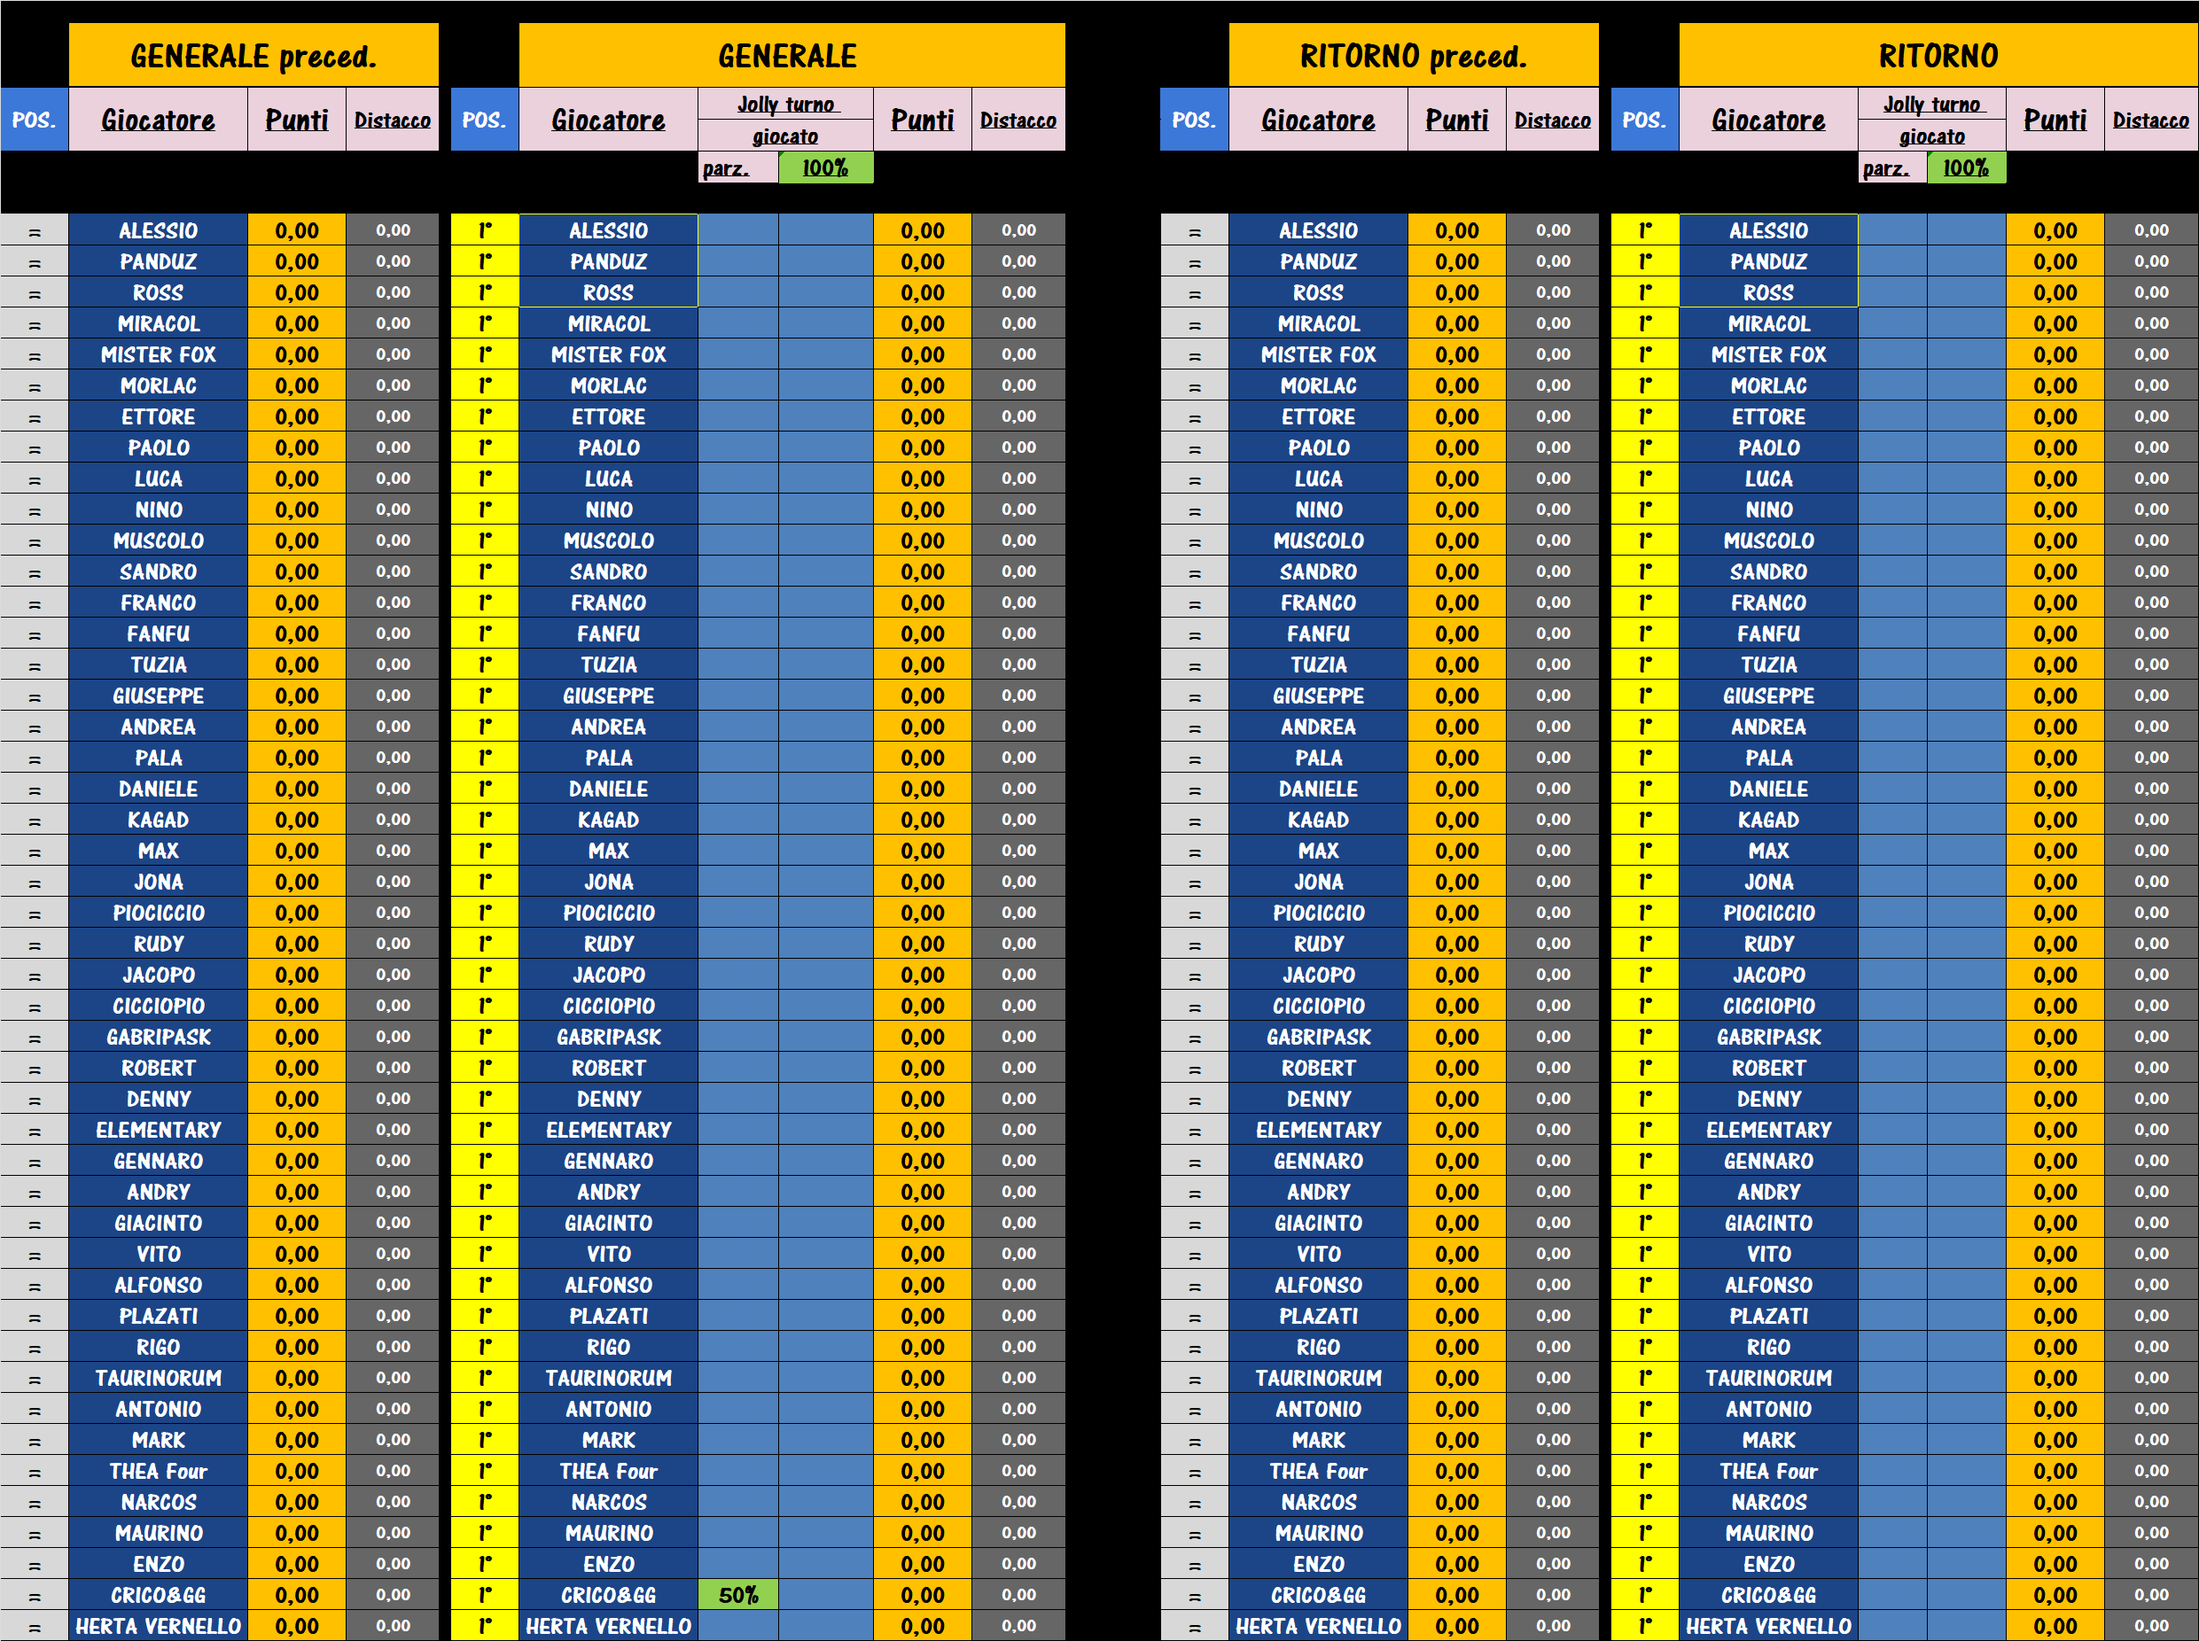
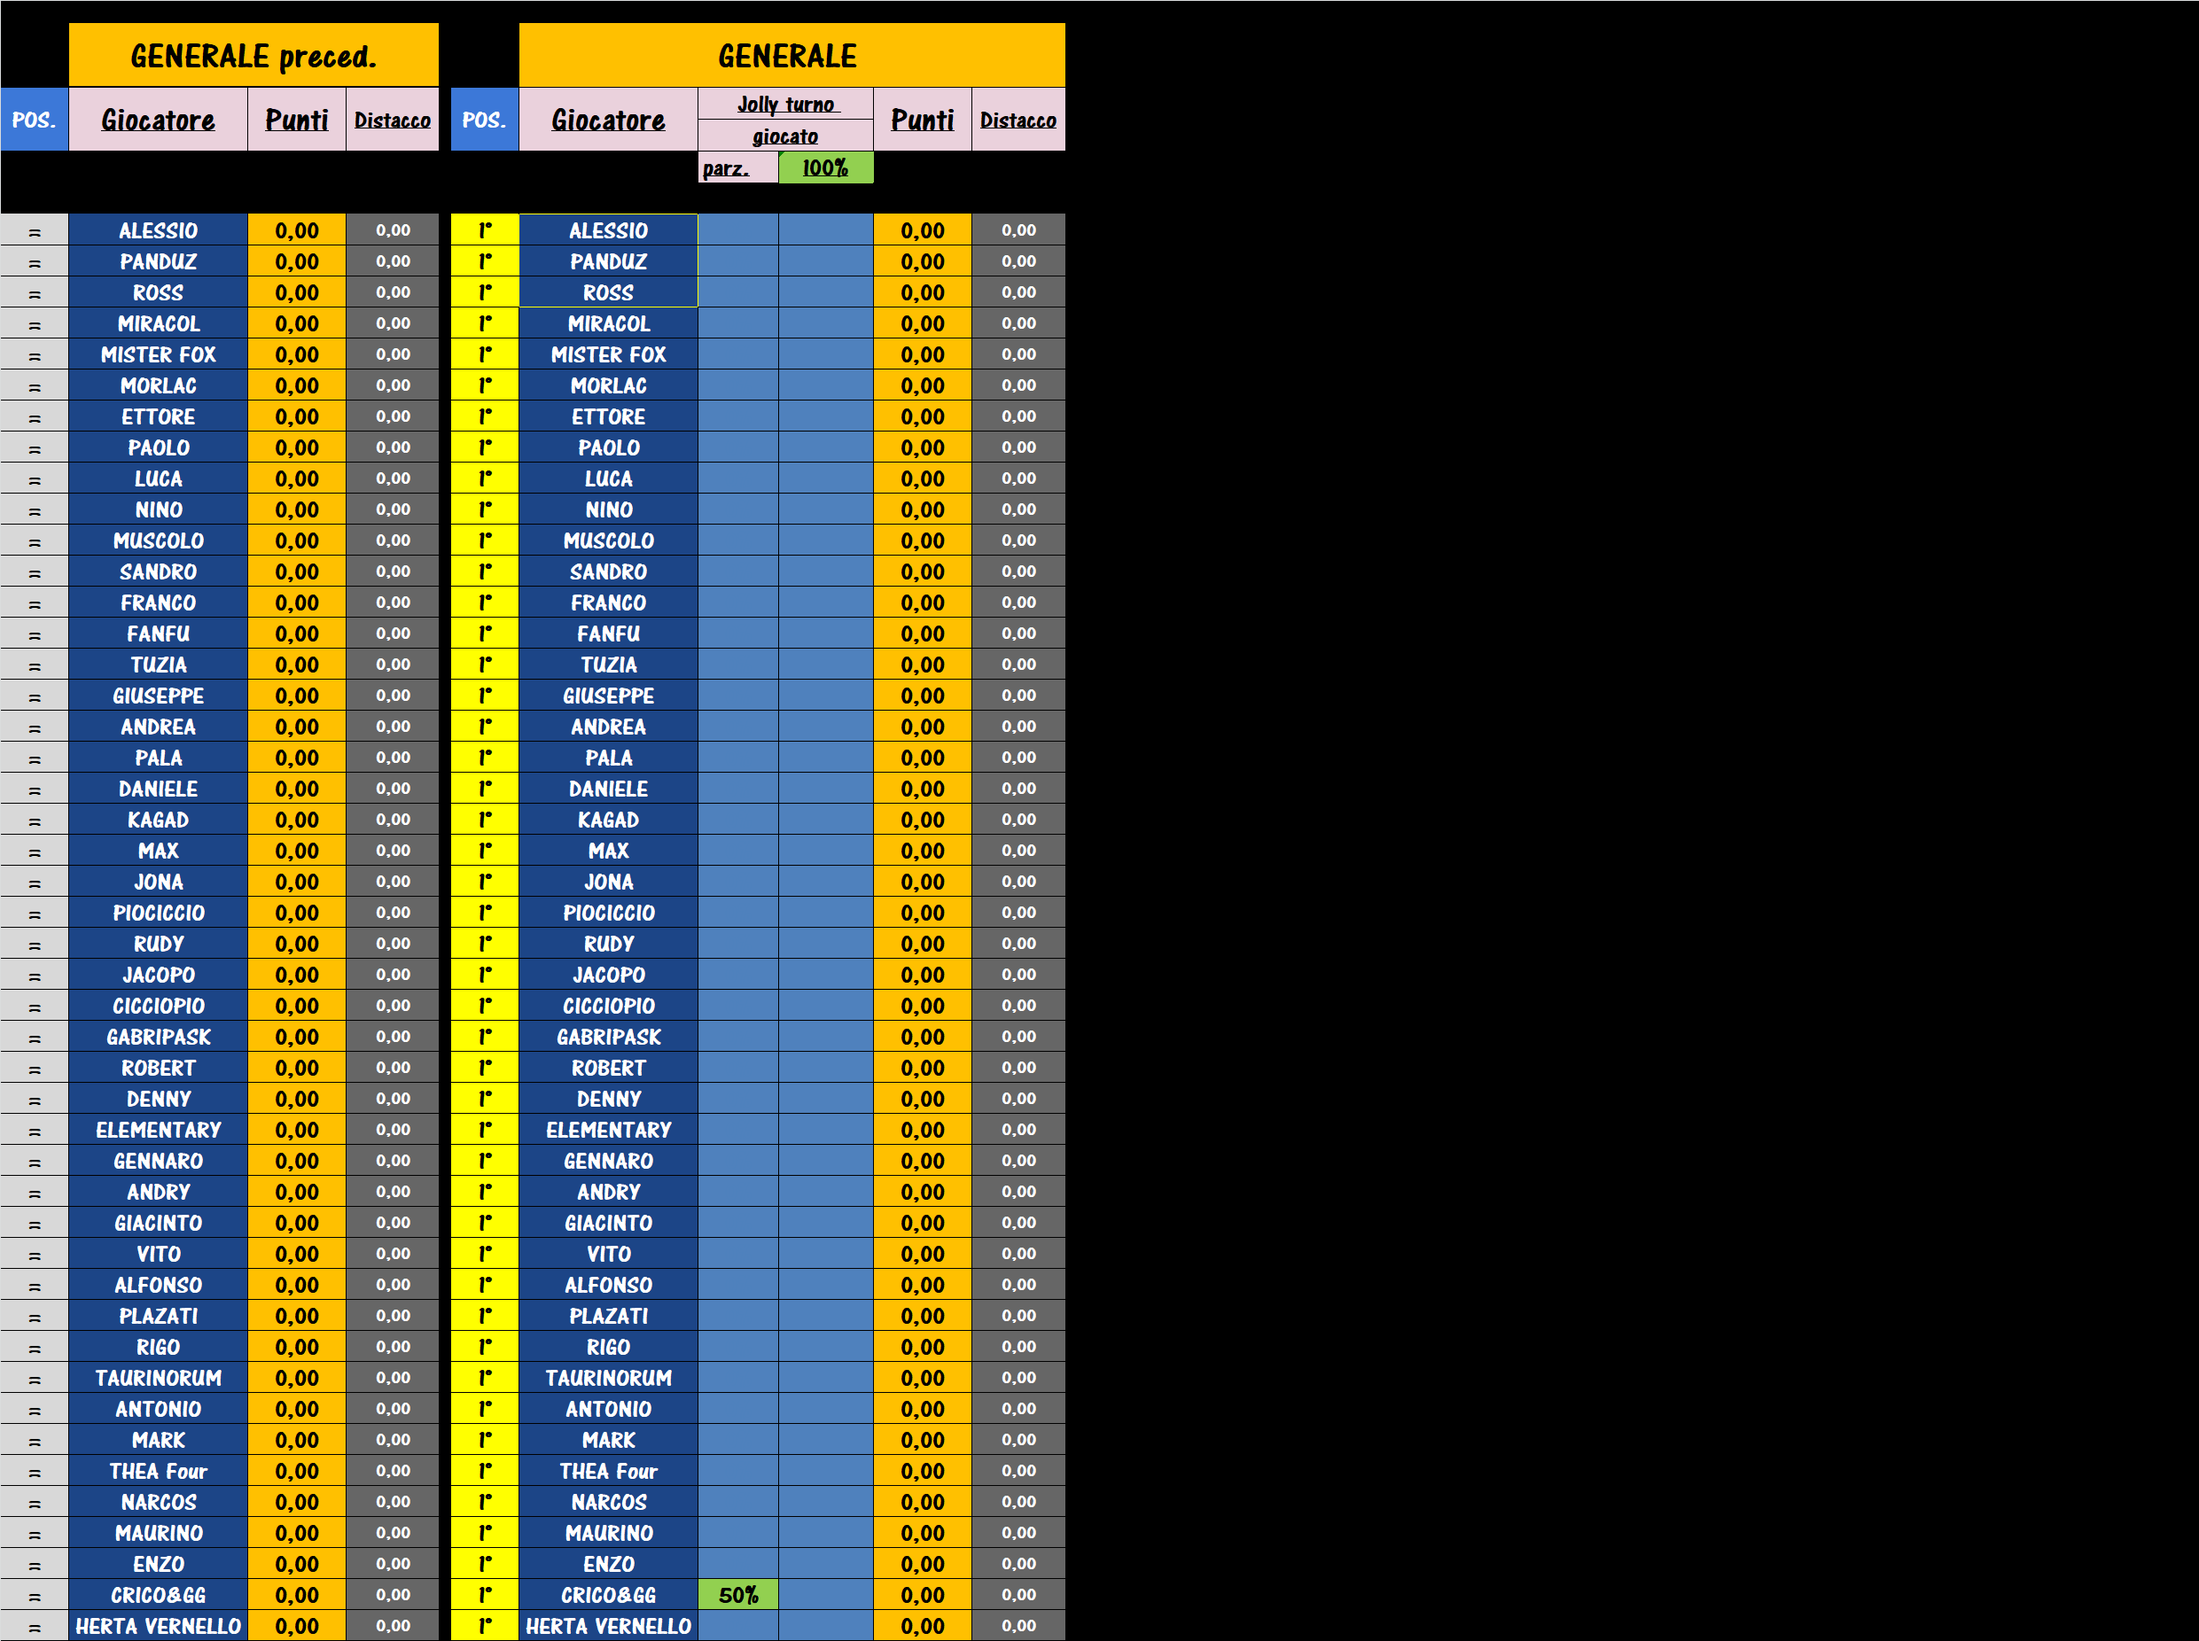
Ripristinato formato classifica turno

diff --git a/visualizza_tabellini.html b/visualizza_tabellini.html
@@ -31,8 +31,8 @@
         </select><br><img id="i-reg" style="display:none; width:400px; margin-top:10px;">
         <div class="frame">
             <h2>⚽ RISULTATI ⚽</h2>
-            <img src="foto_tabellini/risultati_partite.png?v=1786462296" class="img-larga"><br>
-            <img src="foto_tabellini/foto_extra.png?v=1786462296" style="width:50%; border:1px solid #444; margin-top:20px;">
+            <img src="foto_tabellini/risultati_partite.png?v=1786462430" class="img-larga"><br>
+            <img src="foto_tabellini/foto_extra.png?v=1786462430" style="width:50%; border:1px solid #444; margin-top:20px;">
         </div>
         <h2>📝 TABELLINI 📝</h2>
         <select class="gold-select" onchange="var img=document.getElementById('i-tab'); img.src=this.value; img.style.display='inline'">
@@ -40,8 +40,8 @@
         </select><br><img id="i-tab" style="display:none; width:90%; margin-top:20px; border:2px solid #00ff88;">
         <div class="frame">
             <h2>📊 CLASSIFICHE 📊</h2>
-            <img src="foto_tabellini/classifica_turno_parte1.png?v=1786462296" class="img-classifica-50">
-            <img src="foto_tabellini/classifica_turno_parte2.png?v=1786462296" class="img-classifica-totale">
+            <img src="foto_tabellini/classifica_turno_parte1.png?v=1786462430" class="img-classifica-50">
+            <img src="foto_tabellini/classifica_turno_parte2.png?v=1786462430" class="img-classifica-totale">
         </div>
     </div>
     <div class="settore-oro">
@@ -55,16 +55,16 @@
             <option value="">-- SELEZIONA GIOCATORE --</option><option value="foto_tabellini/coppa_tab_ALESSIO.png">ALESSIO</option><option value="foto_tabellini/coppa_tab_PANDUZ.png">PANDUZ</option><option value="foto_tabellini/coppa_tab_ROSS.png">ROSS</option><option value="foto_tabellini/coppa_tab_MIRACOL.png">MIRACOL</option><option value="foto_tabellini/coppa_tab_MISTER FOX.png">MISTER FOX</option><option value="foto_tabellini/coppa_tab_MORLAC.png">MORLAC</option><option value="foto_tabellini/coppa_tab_ETTORE.png">ETTORE</option><option value="foto_tabellini/coppa_tab_PAOLO.png">PAOLO</option><option value="foto_tabellini/coppa_tab_LUCA.png">LUCA</option><option value="foto_tabellini/coppa_tab_NINO.png">NINO</option><option value="foto_tabellini/coppa_tab_MUSCOLO.png">MUSCOLO</option><option value="foto_tabellini/coppa_tab_SANDRO.png">SANDRO</option><option value="foto_tabellini/coppa_tab_FRANCO.png">FRANCO</option><option value="foto_tabellini/coppa_tab_FANFU.png">FANFU</option><option value="foto_tabellini/coppa_tab_TUZIA.png">TUZIA</option><option value="foto_tabellini/coppa_tab_GIUSEPPE.png">GIUSEPPE</option><option value="foto_tabellini/coppa_tab_ANDREA.png">ANDREA</option><option value="foto_tabellini/coppa_tab_PALA.png">PALA</option><option value="foto_tabellini/coppa_tab_DANIELE.png">DANIELE</option><option value="foto_tabellini/coppa_tab_KAGAD.png">KAGAD</option><option value="foto_tabellini/coppa_tab_MAX.png">MAX</option><option value="foto_tabellini/coppa_tab_JONA.png">JONA</option><option value="foto_tabellini/coppa_tab_PIOCICCIO.png">PIOCICCIO</option><option value="foto_tabellini/coppa_tab_RUDY.png">RUDY</option><option value="foto_tabellini/coppa_tab_JACOPO.png">JACOPO</option><option value="foto_tabellini/coppa_tab_CICCIOPIO.png">CICCIOPIO</option><option value="foto_tabellini/coppa_tab_GABRIPASK.png">GABRIPASK</option><option value="foto_tabellini/coppa_tab_ROBERT.png">ROBERT</option><option value="foto_tabellini/coppa_tab_DENNY.png">DENNY</option><option value="foto_tabellini/coppa_tab_ELEMENTARY.png">ELEMENTARY</option><option value="foto_tabellini/coppa_tab_GENNARO.png">GENNARO</option><option value="foto_tabellini/coppa_tab_ANDRY.png">ANDRY</option><option value="foto_tabellini/coppa_tab_GIACINTO.png">GIACINTO</option><option value="foto_tabellini/coppa_tab_VITO.png">VITO</option><option value="foto_tabellini/coppa_tab_ALFONSO.png">ALFONSO</option><option value="foto_tabellini/coppa_tab_PLAZATI.png">PLAZATI</option><option value="foto_tabellini/coppa_tab_RIGO.png">RIGO</option><option value="foto_tabellini/coppa_tab_TAURINORUM.png">TAURINORUM</option><option value="foto_tabellini/coppa_tab_ANTONIO.png">ANTONIO</option><option value="foto_tabellini/coppa_tab_MARK.png">MARK</option><option value="foto_tabellini/coppa_tab_THEA FOUR.png">THEA FOUR</option><option value="foto_tabellini/coppa_tab_NARCOS.png">NARCOS</option><option value="foto_tabellini/coppa_tab_MAURINO.png">MAURINO</option><option value="foto_tabellini/coppa_tab_ENZO.png">ENZO</option><option value="foto_tabellini/coppa_tab_CRICO&GG.png">CRICO&GG</option><option value="foto_tabellini/coppa_tab_HERTA VERNELLO.png">HERTA VERNELLO</option>
         </select><br><img id="i-coppa-tab" style="display:none; width:90%; margin-top:20px; border:2px solid gold;">
         <h2 style="color: white; margin-top: 30px; margin-bottom: 20px;">📊 RISULTATI e CLASSIFICHE 📊</h2>
-        <div class="frame" style="border-color: gold;"><img src="foto_tabellini/coppa_fase1_parte2.png?v=1786462296" class="coppa-img"><div class="colonna-destra distacco-img"><img src="foto_tabellini/coppa_fase1_parte1.png?v=1786462296" style="width:100%; border:2px solid gold;"></div></div>
-        <div class="frame" style="border-color: gold;"><img src="foto_tabellini/coppa_fase2_parte2.png?v=1786462296" class="coppa-img"><div class="colonna-destra distacco-img"><img src="foto_tabellini/coppa_fase2_parte1.png?v=1786462296" style="width:100%; border:2px solid gold;"></div></div>
-        <div class="frame" style="border-color: gold;"><img src="foto_tabellini/coppa_fase3_parte1.png?v=1786462296" class="coppa-img"></div>
+        <div class="frame" style="border-color: gold;"><img src="foto_tabellini/coppa_fase1_parte2.png?v=1786462430" class="coppa-img"><div class="colonna-destra distacco-img"><img src="foto_tabellini/coppa_fase1_parte1.png?v=1786462430" style="width:100%; border:2px solid gold;"></div></div>
+        <div class="frame" style="border-color: gold;"><img src="foto_tabellini/coppa_fase2_parte2.png?v=1786462430" class="coppa-img"><div class="colonna-destra distacco-img"><img src="foto_tabellini/coppa_fase2_parte1.png?v=1786462430" style="width:100%; border:2px solid gold;"></div></div>
+        <div class="frame" style="border-color: gold;"><img src="foto_tabellini/coppa_fase3_parte1.png?v=1786462430" class="coppa-img"></div>
     </div>
     <div class="settore-blu">
         <h1 style="color: #00bfff; font-size: 50px;">🏆 Torneo FUORI L'ULTIMO 🏆</h1>
         <h2 style="color: white; margin-top: 20px;">📜 REGOLAMENTO 📜</h2>
         <div style="border-color: #00bfff; display: inline-block; margin: 10px;"><img src="immagini_fisse/REGOLE FUORI ULTIMO.png" style="width: 80%; border: 2px solid #00bfff;"></div>
         <h2 style="color: white; margin-top: 30px; margin-bottom: 20px;">📊 RISULTATI e CLASSIFICHE 📊</h2>
-        <div class="frame" style="border-color: #00bfff;"><img src="foto_tabellini/fuori_parte1.png?v=1786462296" class="fuori-img"><div class="colonna-destra distacco-img"><img src="foto_tabellini/fuori_parte2.png?v=1786462296" style="width:100%; border:2px solid #00bfff;"></div></div>
-        <div class="frame" style="border-color: #00bfff;"><img src="foto_tabellini/fuori_parte3.png?v=1786462296" class="fuori-img-larga"></div>
+        <div class="frame" style="border-color: #00bfff;"><img src="foto_tabellini/fuori_parte1.png?v=1786462430" class="fuori-img"><div class="colonna-destra distacco-img"><img src="foto_tabellini/fuori_parte2.png?v=1786462430" style="width:100%; border:2px solid #00bfff;"></div></div>
+        <div class="frame" style="border-color: #00bfff;"><img src="foto_tabellini/fuori_parte3.png?v=1786462430" class="fuori-img-larga"></div>
     </div>
 </body></html>
